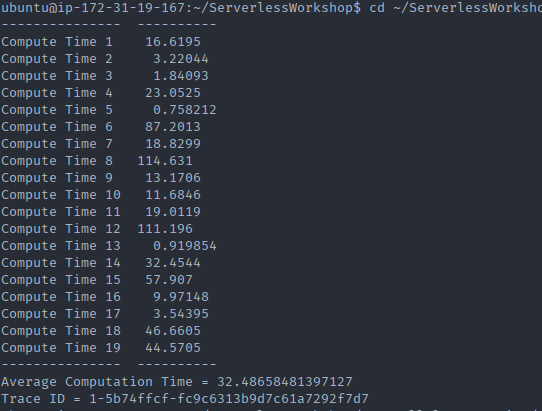
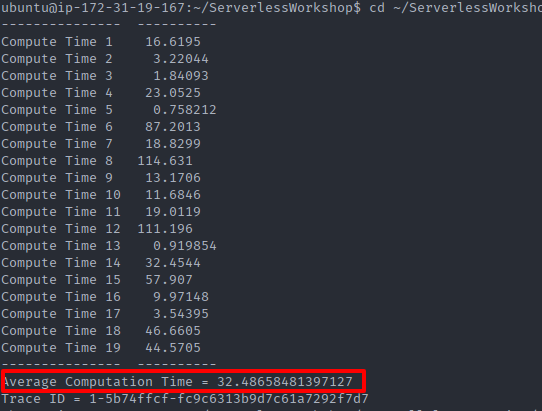
Added documentation for parallel processing module.

Changed region(s): [[0.0, 0.8759, 0.679, 0.9635]]

diff --git a/3-connection-reuse/scripts/stats.py b/3-connection-reuse/scripts/stats.py
@@ -19,9 +19,9 @@ def print_stats(traces):
         for subsegment in subsegments:
             if subsegment['name'] == 'dynamo-call':
                 durations.append(subsegment['end_time'] - subsegment['start_time'])
-    print(tabulate([["DynamoDB Initialization {}".format(durations.index(x) + 1), x] for x in durations]))
+    print(tabulate([["DynamoDB Client Initialization {}".format(durations.index(x) + 1), x] for x in durations]))
     if len(durations) is 0:
-        print("No Initialization Time Found. Average Initialization Time = 0.00")
+        print("No DynamoDB Client Initialization Time Found. Average Initialization Time = 0.00")
     else:
         print("Average DynamoDB Client Initialization Time = {}".format(sum(durations)/len(durations)))
     print("Trace ID = {}".format(traces[u'Traces'][0]['Id']))

diff --git a/README.md b/README.md
@@ -450,12 +450,12 @@ cd ~/ServerlessWorkshop/5-parallel-processing/scripts && python3 stats.py
 
 If you would like to check the Compute Time Initialization time in the X-Ray Console, navigate to the [Traces Section](https://ap-south-1.console.aws.amazon.com/xray/home?region=ap-south-1#/traces) of the X-Ray console and search for the Trace ID from the output of the previous script. This will bring up the details of the latest Trace. Go through the values that are listed for the **compute-time** subsegment highlighted below.
 
-![DynamoDB Call Before](images/dynamo-call-before.png)
+![DynamoDB Call Before](images/parallel-before.png)
 
 #### Deploy the Connection Re-use Optimized Application
 
 ```bash
-cd ~/ServerlessWorkshop && ./deploy.sh -s 3
+cd ~/ServerlessWorkshop && ./deploy.sh -s 5
 
 Enter Version Option [1 (Unoptimized) | 2 (Optimized)]: 2
 ```
@@ -469,12 +469,12 @@ Once the deployment is complete, navigate to the Application in your browser and
 Run the `stats.py` script folder again to measure the Performance after the optimization has been applied.
 
 ```bash
-cd ~/ServerlessWorkshop/3-connection-reuse/scripts && python3 stats.py
+cd ~/ServerlessWorkshop/5-parallel-processing/scripts && python3 stats.py
 ```
 
 
 
-![DynamoDB Initialization](images/dynamo-call-initialization-after-easy.png)
+![DynamoDB Initialization](images/parallel-after.png)
 
-You should see a decrease in the Average Initialization time.
+You should see a decrease in the Average Compute time.
 
